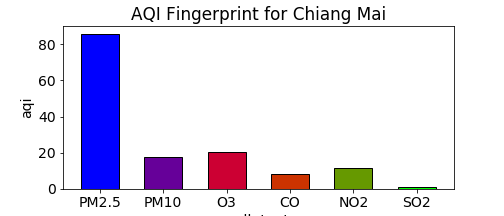
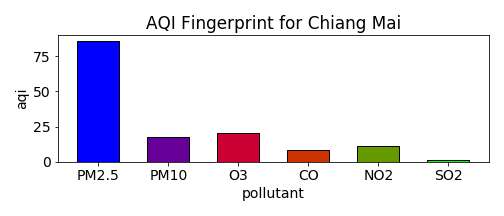
2020-09-13 15:06 auto backup

diff --git a/src/visualization/vis_data.py b/src/visualization/vis_data.py
@@ -620,7 +620,8 @@ def plot_chem_print(
     plt.title(f'AQI Fingerprint for {city_name}')
     plt.xlabel('pollutant')
     plt.ylabel('aqi')
-
+    plt.tight_layout()
+    
     if filename:
         plt.savefig(filename)
 

diff --git a/README.md b/README.md
@@ -163,11 +163,13 @@ On average, the PM2.5 level significantly increases in the winter season. The av
 
 ![seasonal pattern](https://github.com/worasom/aqi_thailand2/blob/master/reports/chiang_mai/fire_PM25_season_aqi.png)
 
-The figure below compares the yearly average of PM2.5, PM10, number of hotspots, and the temperature. Only the values in the pollution season (between Dec 1 and April 30) are used for calculating the average. The rising temperature due to climate change is visible, while the trend for the pollution level(PM10) has a downward trend. Since PM10 and PM2.5 are highly correlated, we can infer that the trend for PM2.5 is the same. Since the yearly trends of pollutions and temperature are in the opposite direction, I can rule out the direct and indirect effects of global warming toward high air pollution.
+The figure below compares the yearly average of PM2.5, PM10, number of hotspots, and the temperature. Only the values in the pollution season (between Dec 1 and April 30) are used for calculating the average. The rising temperature due to climate change is visible, while the trend for the pollution level(PM10) has a downward trend. Since PM10 and PM2.5 are highly correlated, we can infer that the trend for PM2.5 is the same. Since the yearly trends of pollutions and temperature are in the opposite direction, I can rule out the direct and indirect effects of climate change warming toward high air pollution. 
 
-Again, the yearly trends of both kinds of particle pollutions and the number of hotspots are highly correlated. Moreover, in the years with a particularly low number of hotspots, the both PM2.5 and PM10 are also low, for example, in the pollution season year 2010 (between December 2010 – April 2011), and year 2016 (between December 2016 – April 2017). 
+**The burning activities will affect the climate change, so please stop burning!**
 
 ![linear trend](https://github.com/worasom/aqi_thailand2/blob/master/reports/chiang_mai/compare_ln_trends.png)
+
+Again, the yearly trends of both kinds of particle pollutions and the number of hotspots are highly correlated. Moreover, in the years with a particularly low number of hotspots, the both PM2.5 and PM10 are also low, for example, in the pollution season year 2010 (between December 2010 – April 2011), and year 2016 (between December 2016 – April 2017). 
 
 ### Agricultural Burning 
 
